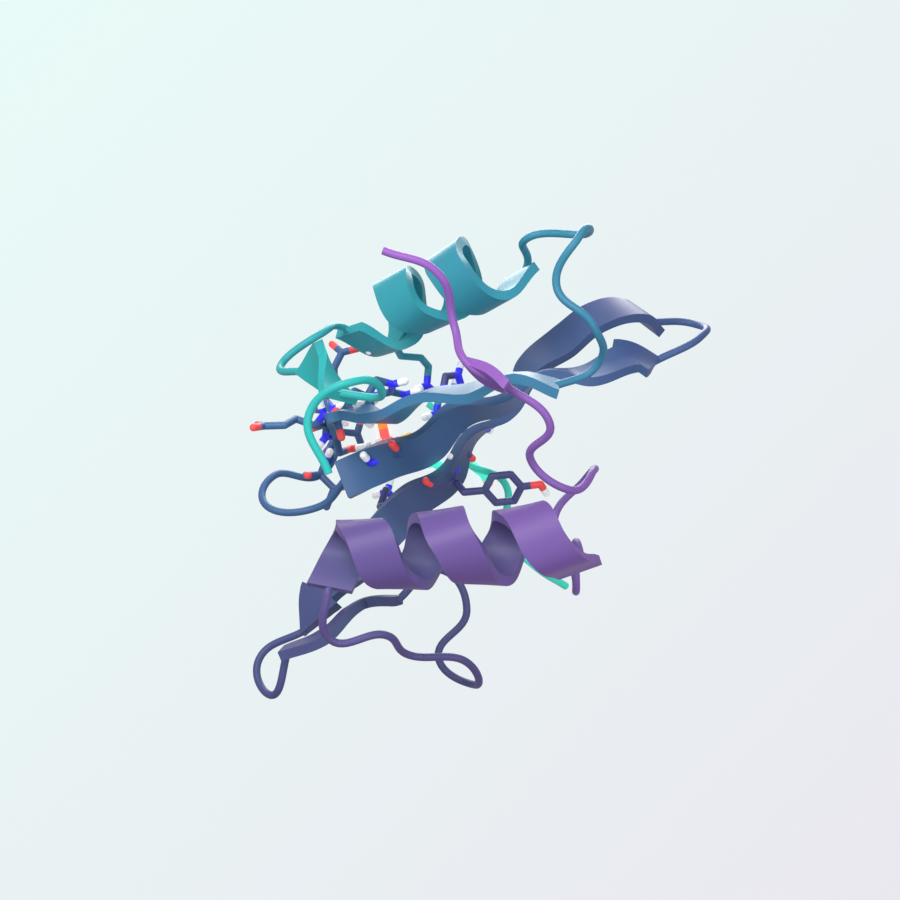
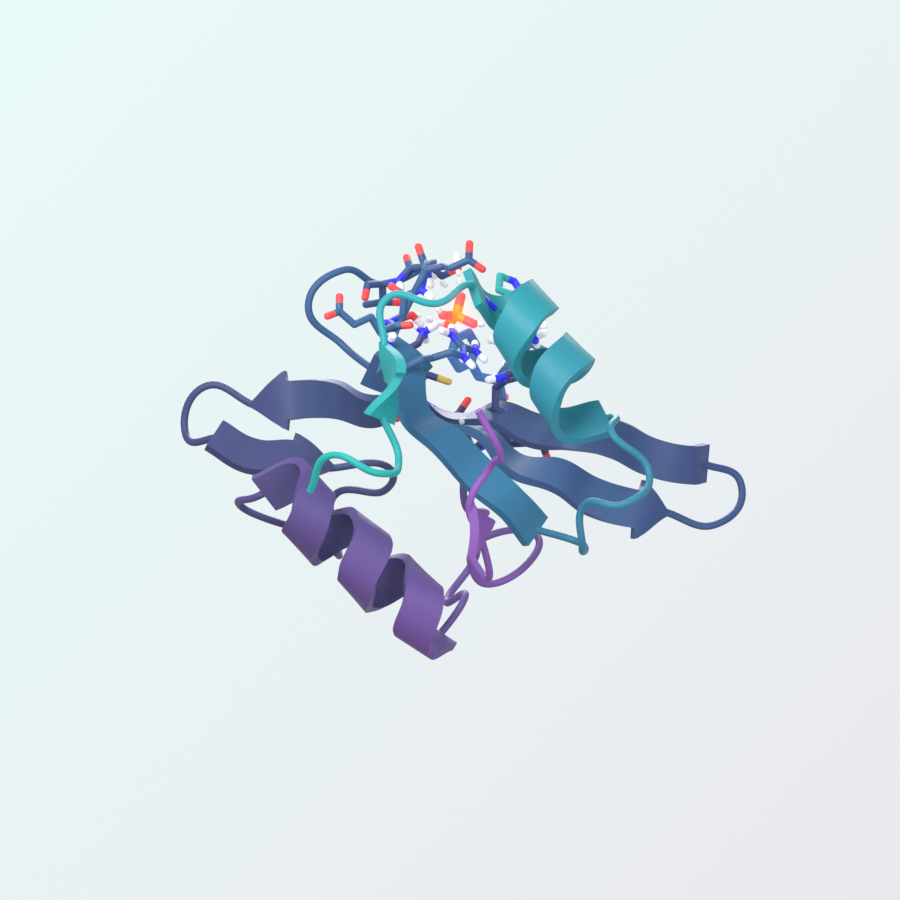
docs(presets): use the shared 1SPS pose and view for Northern Nights

Changed region(s): [[0.1867, 0.2489, 0.84, 0.7778], [0.2178, 0.4044, 0.2489, 0.4356]]

diff --git a/docs/reference-presets.md b/docs/reference-presets.md
@@ -133,35 +133,24 @@ Two presets provide related bright and dark looks:
 - `northern_nights_cutaway`: a rounded pocket opening and black background,
   using a violet–blue–purple binder palette and teal-to-mint peptide gradient.
 
-Both previews use public **1SPS** (Src SH2 domain bound to the pY peptide
-pQpYEEIP), from the bundled `examples/1sps.cif`. The file holds three copies of
-the complex; the previews keep biological assembly 1, which is SH2 chain A with
-peptide chain D (author chain IDs). Chain D was relabeled B to match the presets'
-peptide selection, and coordinates were not moved. The camera is PyMOL's
-load-time view of the deposited coordinates: no `orient`, only `zoom` with a
-2 angstrom buffer. Build the same pose in PyMOL:
-
-```python
-cmd.load("examples/1sps.cif", "structure")
-cmd.remove("not (chain A+D)")
-cmd.alter("chain D", 'chain="B"')
-cmd.hide("everything"); cmd.show("cartoon", "polymer"); cmd.show("sticks", "organic")
-cmd.zoom("all", buffer=2)
-cmd.save("1sps_assembly1.pse")
-```
+Like the other 1SPS examples, both previews use the bundled
+`examples/1sps_pose.pse`: public **1SPS** (Src SH2 domain bound to the pY
+peptide pQpYEEIP), chains A and D, solvent removed.
 
 ```sh
-blender-render render 1sps_assembly1.pse --preset northern_nights -o bright.png
-blender-render render 1sps_assembly1.pse --preset northern_nights_cutaway -o cutaway.png
+blender-render render examples/1sps_pose.pse --preset northern_nights -o bright.png
+blender-render render examples/1sps_pose.pse --preset northern_nights_cutaway -o cutaway.png
 # Select the authored PTR close-up framing (27 angstrom orthographic extent):
-blender-render render 1sps_assembly1.pse --preset northern_nights --no-preserve-view -o detail.png
+blender-render render examples/1sps_pose.pse --preset northern_nights --no-preserve-view -o detail.png
 # Optional camera turntable, not a molecular trajectory:
-blender-render render 1sps_assembly1.pse --preset northern_nights_cutaway --animation 360 --gif -o turntable.png
+blender-render render examples/1sps_pose.pse --preset northern_nights_cutaway --animation 360 --gif -o turntable.png
 ```
 
-Rendering `examples/1sps.cif` directly is different: the CLI orients the whole
-file, so all three copies appear and protein chain B takes the peptide colors.
-For your own complex, prepare the selections and camera the same way.
+The presets treat chain B as the peptide. In this pose the peptide is chain D,
+so it takes the binder palette instead of mint, while the PTR glow (selected by
+residue name) still applies. For the mint peptide, relabel it first with
+`alter chain D, chain="B"` in PyMOL. For your own complex, adapt the chain
+selections the same way.
 
 In PyMOL, select `preset=northern_nights` or `preset=northern_nights_cutaway`.
 These presets select chain B as the peptide. Adapt the chain palette and all
